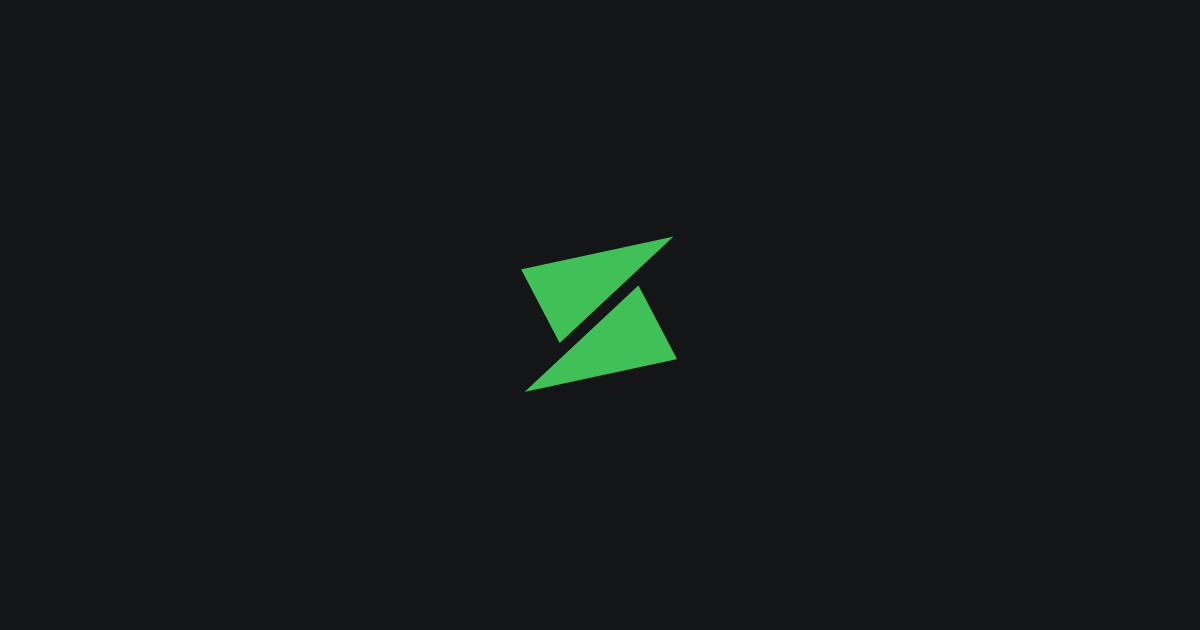
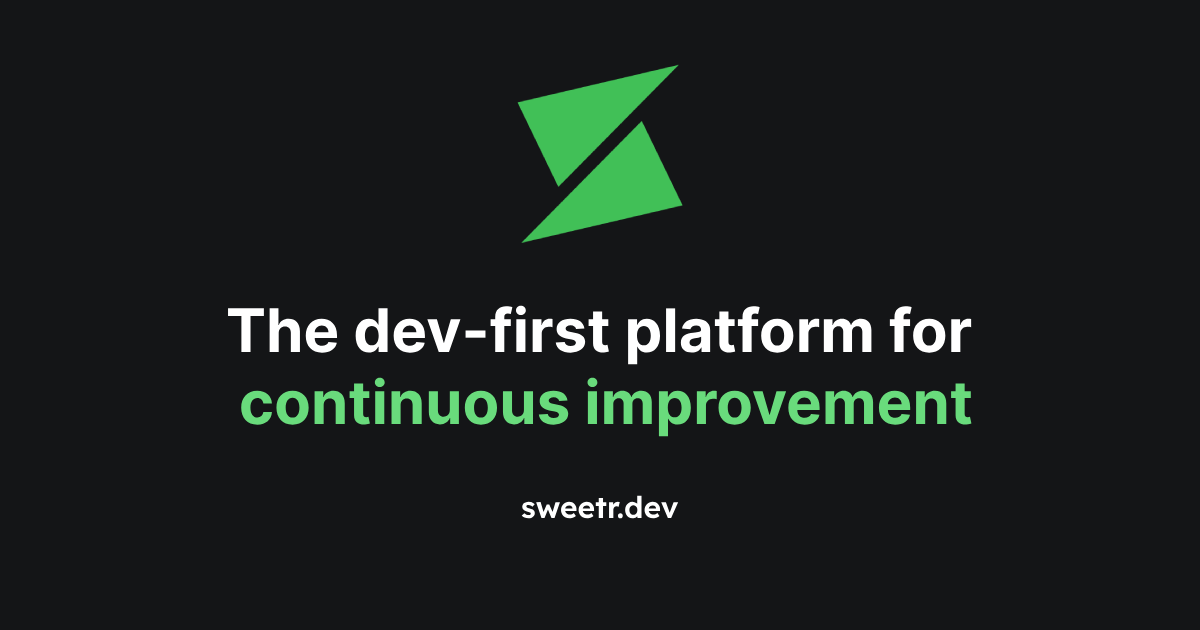
feat(mkt): new og image

Changed region(s): [[0.185, 0.0905, 0.8325, 0.6937], [0.4317, 0.7841, 0.5858, 0.8444]]

diff --git a/apps/mkt/app/layout.tsx b/apps/mkt/app/layout.tsx
@@ -24,9 +24,9 @@ export const metadata: Metadata = {
   description:
     "The dev-first platform for continuous improvement. Enable your software engineering teams to optimize and speed up development while improving developer experience.",
   openGraph: {
-    title: "Sweetr.dev - The dev-first platform for continuous improvement.",
+    title: "Sweetr - The dev-first platform for continuous improvement",
     description:
-      "Enable your software engineering teams to optimize and speed up development while improving developer experience.",
+      "Enable your software engineering teams to optimize and speed up development while improving developer experience. Self-host for free or try a 14-day trial.",
     url: "https://sweetr.dev",
     siteName: "sweetr.dev",
     images: [
@@ -43,7 +43,7 @@ export const metadata: Metadata = {
   twitter: {
     card: "summary_large_image",
     title: "sweetr.dev",
-    description: "The dev-first platform for continuous improvement.",
+    description: "The dev-first platform for continuous improvement",
     images: ["https://sweetr.dev/images/og-image.png"],
   },
 };
